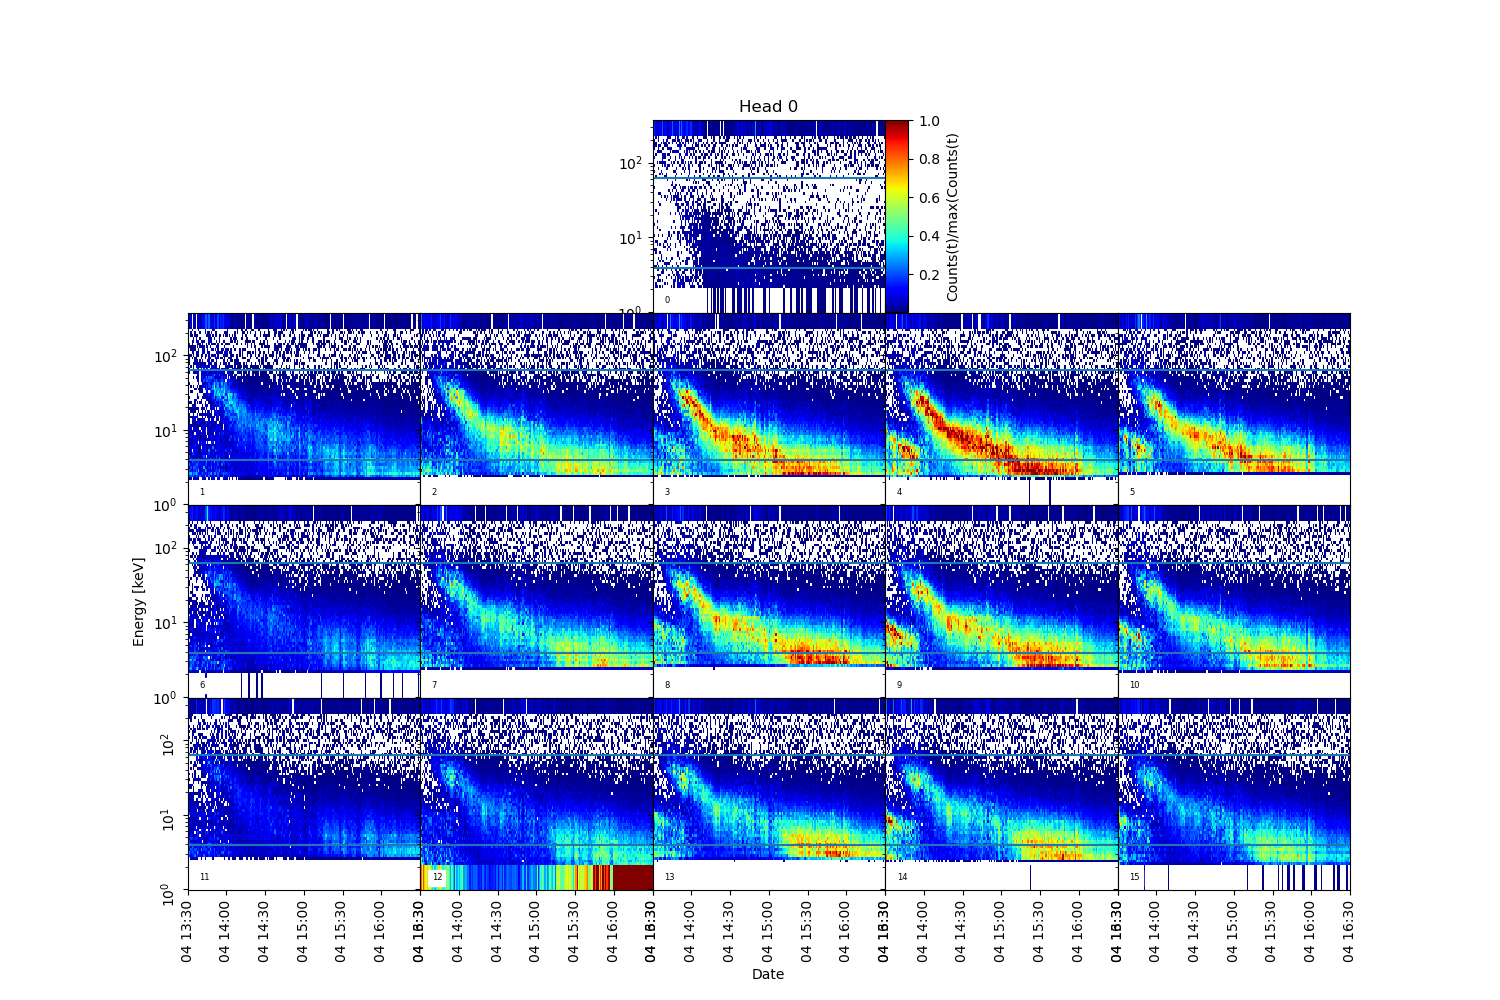
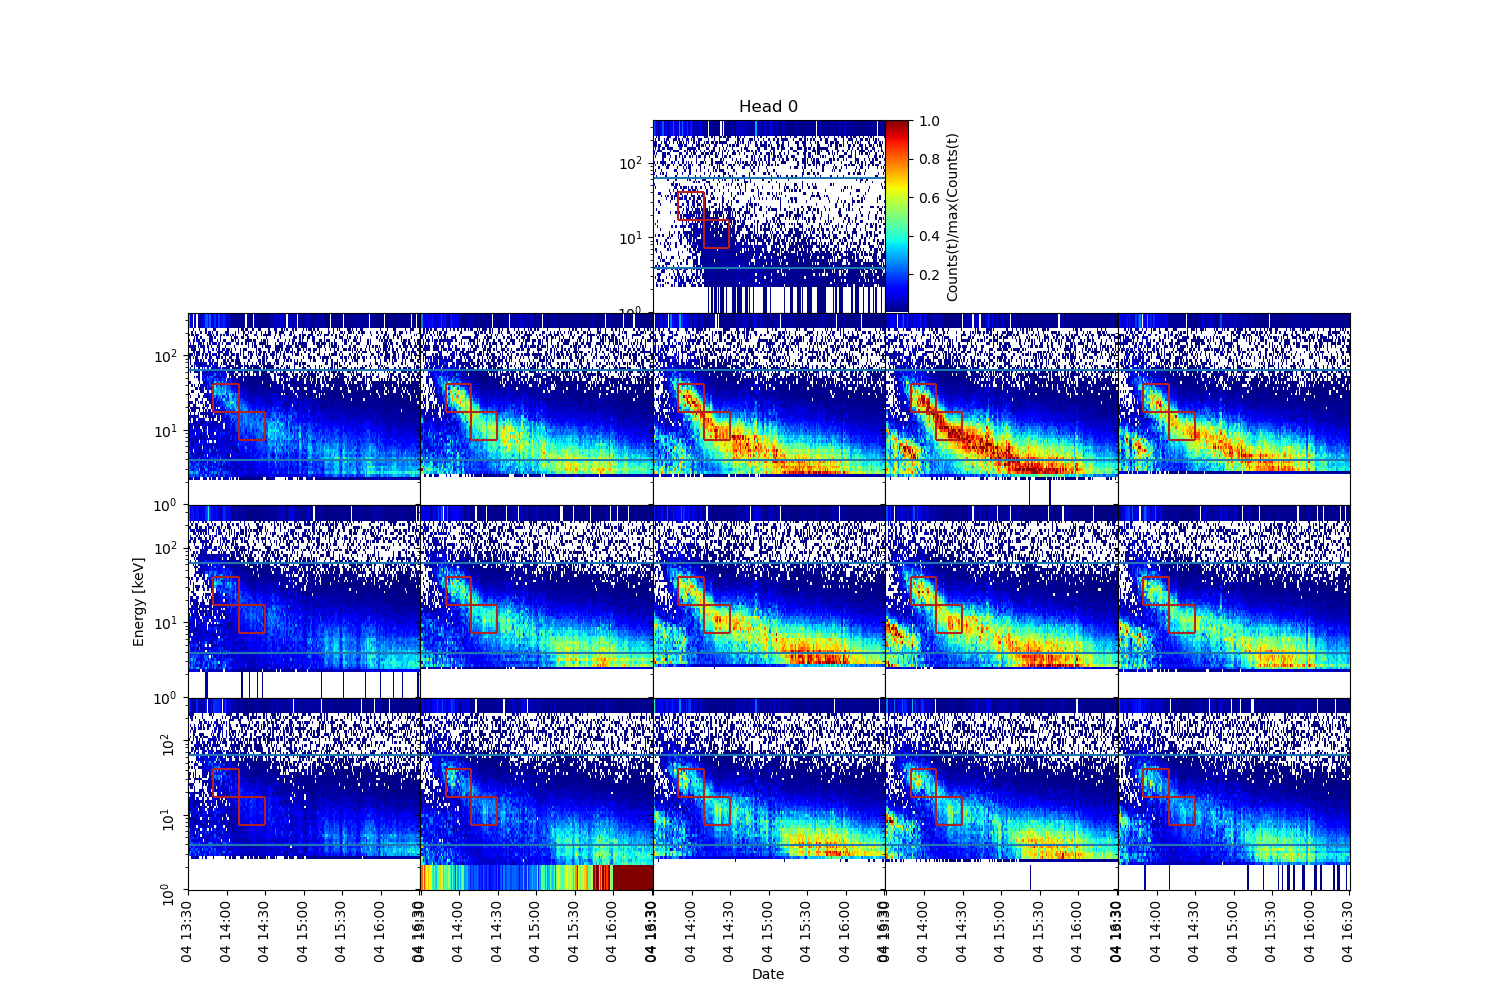
Viele neue Sachen...

diff --git a/analyze_nom_II.py b/analyze_nom_II.py
@@ -27,15 +27,15 @@ hmap = mpl.cm.seismic
 class STEP:
     '''Lädt STEP-Daten zur anschließenden Analyse'''
 
-    def __init__(self,year,month,day,lastofmonth=False):
+    def __init__(self,rpath,year,month,day,lastofmonth=False):
         # Loading data
         if lastofmonth:
             if month!=12:
-                self.itime, self.idata = ld.load_nom(period=(dt.datetime(year,month,day),dt.datetime(year,month+1,1)), products=('M','A'))
+                self.itime, self.idata = ld.load_nom(rpath=rpath,period=(dt.datetime(year,month,day),dt.datetime(year,month+1,1)), products=('M','A'))
             else:
-                self.itime, self.idata = ld.load_nom(period=(dt.datetime(year,month,day),dt.datetime(year+1,1,1)), products=('M','A'))
+                self.itime, self.idata = ld.load_nom(rpath=rpath,period=(dt.datetime(year,month,day),dt.datetime(year+1,1,1)), products=('M','A'))
         else:
-            self.itime, self.idata = ld.load_nom(period=(dt.datetime(year,month,day),dt.datetime(year,month,day+1)), products=('M','A'))
+            self.itime, self.idata = ld.load_nom(rpath=rpath,period=(dt.datetime(year,month,day),dt.datetime(year,month,day+1)), products=('M','A'))
         print('Data loaded successfully.')
         
         # Combining data (Main and Auxiliary Product)
@@ -53,6 +53,7 @@ class STEP:
 
     def data_prep(self,ebins=ebins,res = '1min', head = 0, period = None, norm = False, overflow = True, esquare = False):
         '''Vorbereitung der STEP-Daten basierend auf Lars Skripten.'''
+        vmax = None # Falls keine Normierung angegben wird, gebe ich None zurück. Was soll vmax eigentlich darstellen?
 
         if period:
             time,dat = self.cut_data(period[0]-dt.timedelta(seconds=59),period[1])
@@ -139,6 +140,14 @@ class STEP:
 
         return pldat, pltime, vmax
     
+    def data_boxes(self,pldat,ptime,box_list,ebins=ebins):
+        '''Nehme pldat und, um die Daten auf die Boxen einzuschränken. Dabei werden die Werte, die ignoriert werden sollen durch 0.0 ersetzt.'''
+        # Erster Index von pdat müsste die Zeitreihe sein, der zweite der Energie-Bin.
+        # [[[timelow,timeup],[energylow,energyup]],[[timelow,timeup],[energylow,energyup]]]
+        # for pdat in pldat:
+        #     for 
+            
+
     def step_plot(self,xlabel,ylabel,title):
         '''Erzeugt den bekannten STEP-Plot mit allen 16 Pixeln. Gibt Liste mit axes zurück.'''
         fig = plt.figure(figsize = (15,10))
@@ -257,36 +266,38 @@ class STEP:
                     tmp = ax[i].pcolormesh(ptime,ebins,(pdat/vmax).T, cmap = cmap, vmin = np.amin(1/vmax)*0.99,vmax = 1.)
                 
             # PLots der Boxen, Grenzen als  Indizes übergeben.
-            # [[[xlow,xup],[ylow,uyp]],[[xlow,xup],[ylow,yup]]]
-            # if type(box_list) == list:
-            #     for box in box_list:
-            #         ax[i].hlines(pdat)
-
-            # Wie sehen Daten eigentlich aus???
+            # Erster Index von pdat müsste die Zeitreihe sein, der zweite der Energie-Bin.
+            # [[[timelow,timeup],[energylow,energyup]],[[timelow,timeup],[energylow,energyup]]]
+            if type(box_list) == list:
+                for box in box_list:
+                    tlow = ptime[box[0][0]]
+                    tup = ptime[box[0][1]]
+                    elow = ebins[box[1][0]]
+                    eup = ebins[box[1][1]]
+                    ax[i].vlines([tlow,tup],elow,eup,color='firebrick')
+                    ax[i].hlines([elow,eup],tlow,tup,color='firebrick')
                 
-        if (norm and i == 0): # or not norm:
-            tax = fig.add_subplot(4,50,31)
-            if norm == 'tmax':
-                plt.colorbar(tmp,cax = tax, label = 'Counts(t)/max(Counts(t)')
-            elif norm == 'ptmax':
-                plt.colorbar(tmp,cax = tax, label = 'Counts(t)/max(Counts(t)')
-            elif norm == 'max':
-                plt.colorbar(tmp,cax = tax, label = 'Counts')
-            elif norm == 'logmax':
-                plt.colorbar(tmp,cax = tax, label = 'Log10(C)')
-            elif norm == 'pemax':
-                plt.colorbar(tmp,cax = tax, label = 'C(E,pixel)/max(C(E,pixel)')
-            elif norm == 'emax':
-                plt.colorbar(tmp,cax = tax, label = 'C(E)/max(C(E)')
+            if (norm and i == 0): # or not norm:
+                tax = fig.add_subplot(4,50,31)
+                if norm == 'tmax':
+                    plt.colorbar(tmp,cax = tax, label = 'Counts(t)/max(Counts(t)')
+                elif norm == 'ptmax':
+                    plt.colorbar(tmp,cax = tax, label = 'Counts(t)/max(Counts(t)')
+                elif norm == 'max':
+                    plt.colorbar(tmp,cax = tax, label = 'Counts')
+                elif norm == 'logmax':
+                    plt.colorbar(tmp,cax = tax, label = 'Log10(C)')
+                elif norm == 'pemax':
+                    plt.colorbar(tmp,cax = tax, label = 'C(E,pixel)/max(C(E,pixel)')
+                elif norm == 'emax':
+                    plt.colorbar(tmp,cax = tax, label = 'C(E)/max(C(E)')
 
-        ax[i].hlines(ebins[8],ptime[0],ptime[-1])
-        ax[i].hlines(ebins[40],ptime[0],ptime[-1])
-
-        
-        if i > 10:
-            ax[i].tick_params(labelrotation=90)
-        if period:
-            ax[0].set_xlim(period[0],period[1])
+            ax[i].hlines(ebins[8],ptime[0],ptime[-1])
+            ax[i].hlines(ebins[40],ptime[0],ptime[-1])            
+            if i > 10:
+                ax[i].tick_params(labelrotation=90)
+            if period:
+                ax[0].set_xlim(period[0],period[1])
         if save:
             if type(save) == str:
                 plt.savefig(save + 'TS_%.4i_%.2i_%.2i_%.2i-%.2i-%.2i-%i_%.2i-%.2i-%.2i_H%i_%s_%s.png'%(ptime[0].year,ptime[0].month,ptime[0].day,ptime[0].hour,ptime[0].minute,ptime[0].second,ptime[-2].day,ptime[-2].hour,ptime[-2].minute,ptime[-2].second,head,norm,res))

diff --git a/workbench.py b/workbench.py
@@ -7,30 +7,37 @@ import datetime as dt
 import matplotlib.dates as mdates
 import load_nom_II as ld
 import plot_nom_II as pt
-
 from scipy.optimize import curve_fit
+from analyze_nom_II import STEP
 
-helper = [i for i in range(1,16)]
-for i in helper:
-    if i not in [0,1,6,11]:
-        print(str(i) + ' not in list.')
+ebins = np.array([  0.98 ,   2.144,   2.336,   2.544,   2.784,   3.04 ,   3.312,
+         3.6  ,   3.92 ,   4.288,   4.672,   5.088,   5.568,   6.08 ,
+         6.624,   7.2  ,   7.84 ,   8.576,   9.344,  10.176,  11.136,
+        12.16 ,  13.248,  14.4  ,  15.68 ,  17.152,  18.688,  20.352,
+        22.272,  24.32 ,  26.496,  28.8  ,  31.36 ,  34.304,  37.376,
+        40.704,  44.544,  48.64 ,  52.992,  57.6  ,  62.72 ,  68.608,
+        74.752,  81.408,  89.088,  97.28 , 105.984, 115.2  , 125.44 ,
+       137.216, 149.504, 162.816, 178.176, 194.56 , 211.968, 230.4  ,
+       372.736])
 
-# print(str(dt.datetime(2023,3,30,8,30)))
+# dat = STEP('data/',2021,12,4)
 
-# save = 'etracks/'
-# filename = 'test.png'
+# pldat, pltime, vmax = dat.data_prep(ebins,res = '1min', head = 0, period = [dt.datetime(2021,12,4,13,30),dt.datetime(2021,12,4,16,30)], norm = 'tmax', overflow = True, esquare = False)
 
-# fig = plt.figure(figsize = (15,10))
-# fig.subplots_adjust(wspace = 0, hspace = 0)
-# ax = []
-# for i in range(16):
-#     if i == 0:
-#         ax.append(fig.add_subplot(4,5,3))
-#     else:
-#         ax.append(fig.add_subplot(4,5,5+i,sharex = ax[0], sharey = ax[0]))
-# if save:
-#     if type(save) == str:
-#         plt.savefig(save + filename)
-#     else:
-#         plt.savefig(filename)
-# print('Plotted ' + filename + ' successfully!')
+# pdat = pldat[4]
+# ptime = np.append(pltime[4],pltime[4][-1]+dt.timedelta(seconds=60))
+
+# print(pdat)
+# print(len(pdat))
+# print(pdat.T)
+# print(len(pdat.T))
+
+# print(ptime)
+# print(len(ptime))
+# print(ptime.T)
+# print(len(ptime.T))
+
+# print(len(ebins))
+
+a = np.array([0.0,0.0,2.0,3.4,0.0])
+print(np.mean(a))

diff --git a/analyze_data.py b/analyze_data.py
@@ -6,14 +6,17 @@ import datetime as dt
 
 from analyze_nom_II import STEP
 
-dat = STEP(2021,12,4)
+dat = STEP('data/',2021,12,4)
+
+box_list = [[[20,40],[25,35]],[[40,60],[15,25]]]
+
 # dat.marginal_distribution(pixel=4,norm='tmax',save='analyze/')
 # dat.marginal_distribution(pixel=4,norm='tmax',save='analyze/',period=[dt.datetime(2021,12,4,13,30),dt.datetime(2021,12,4,16,30)],fit=True)
 # dat.fit_energy(pixel=4,norm='tmax',save='analyze/',period=[dt.datetime(2021,12,4,13,30),dt.datetime(2021,12,4,16,30)],fit=True,p0=[17500,1,-10,0])
 
 # dat.pixel_integral_window(filename='test.png',norm='tmax',save='etracks/',period=[dt.datetime(2021,12,4,14,30),dt.datetime(2021,12,4,14,35)])
 # dat.evolution_energy_means(filename='test_evolution.png',norm='tmax',save='etracks/',period=[dt.datetime(2021,12,4,13,30),dt.datetime(2021,12,4,16,30)])
-dat.plot_ts(period=[dt.datetime(2021,12,4,13,30),dt.datetime(2021,12,4,16,30)], head=0, save='etracks/', norm='tmax')
+dat.plot_ts(period=[dt.datetime(2021,12,4,13,30),dt.datetime(2021,12,4,16,30)], head=0, save='etracks/', norm='tmax',box_list=box_list)
 
 
 # dat = STEP(2021,12,5)
